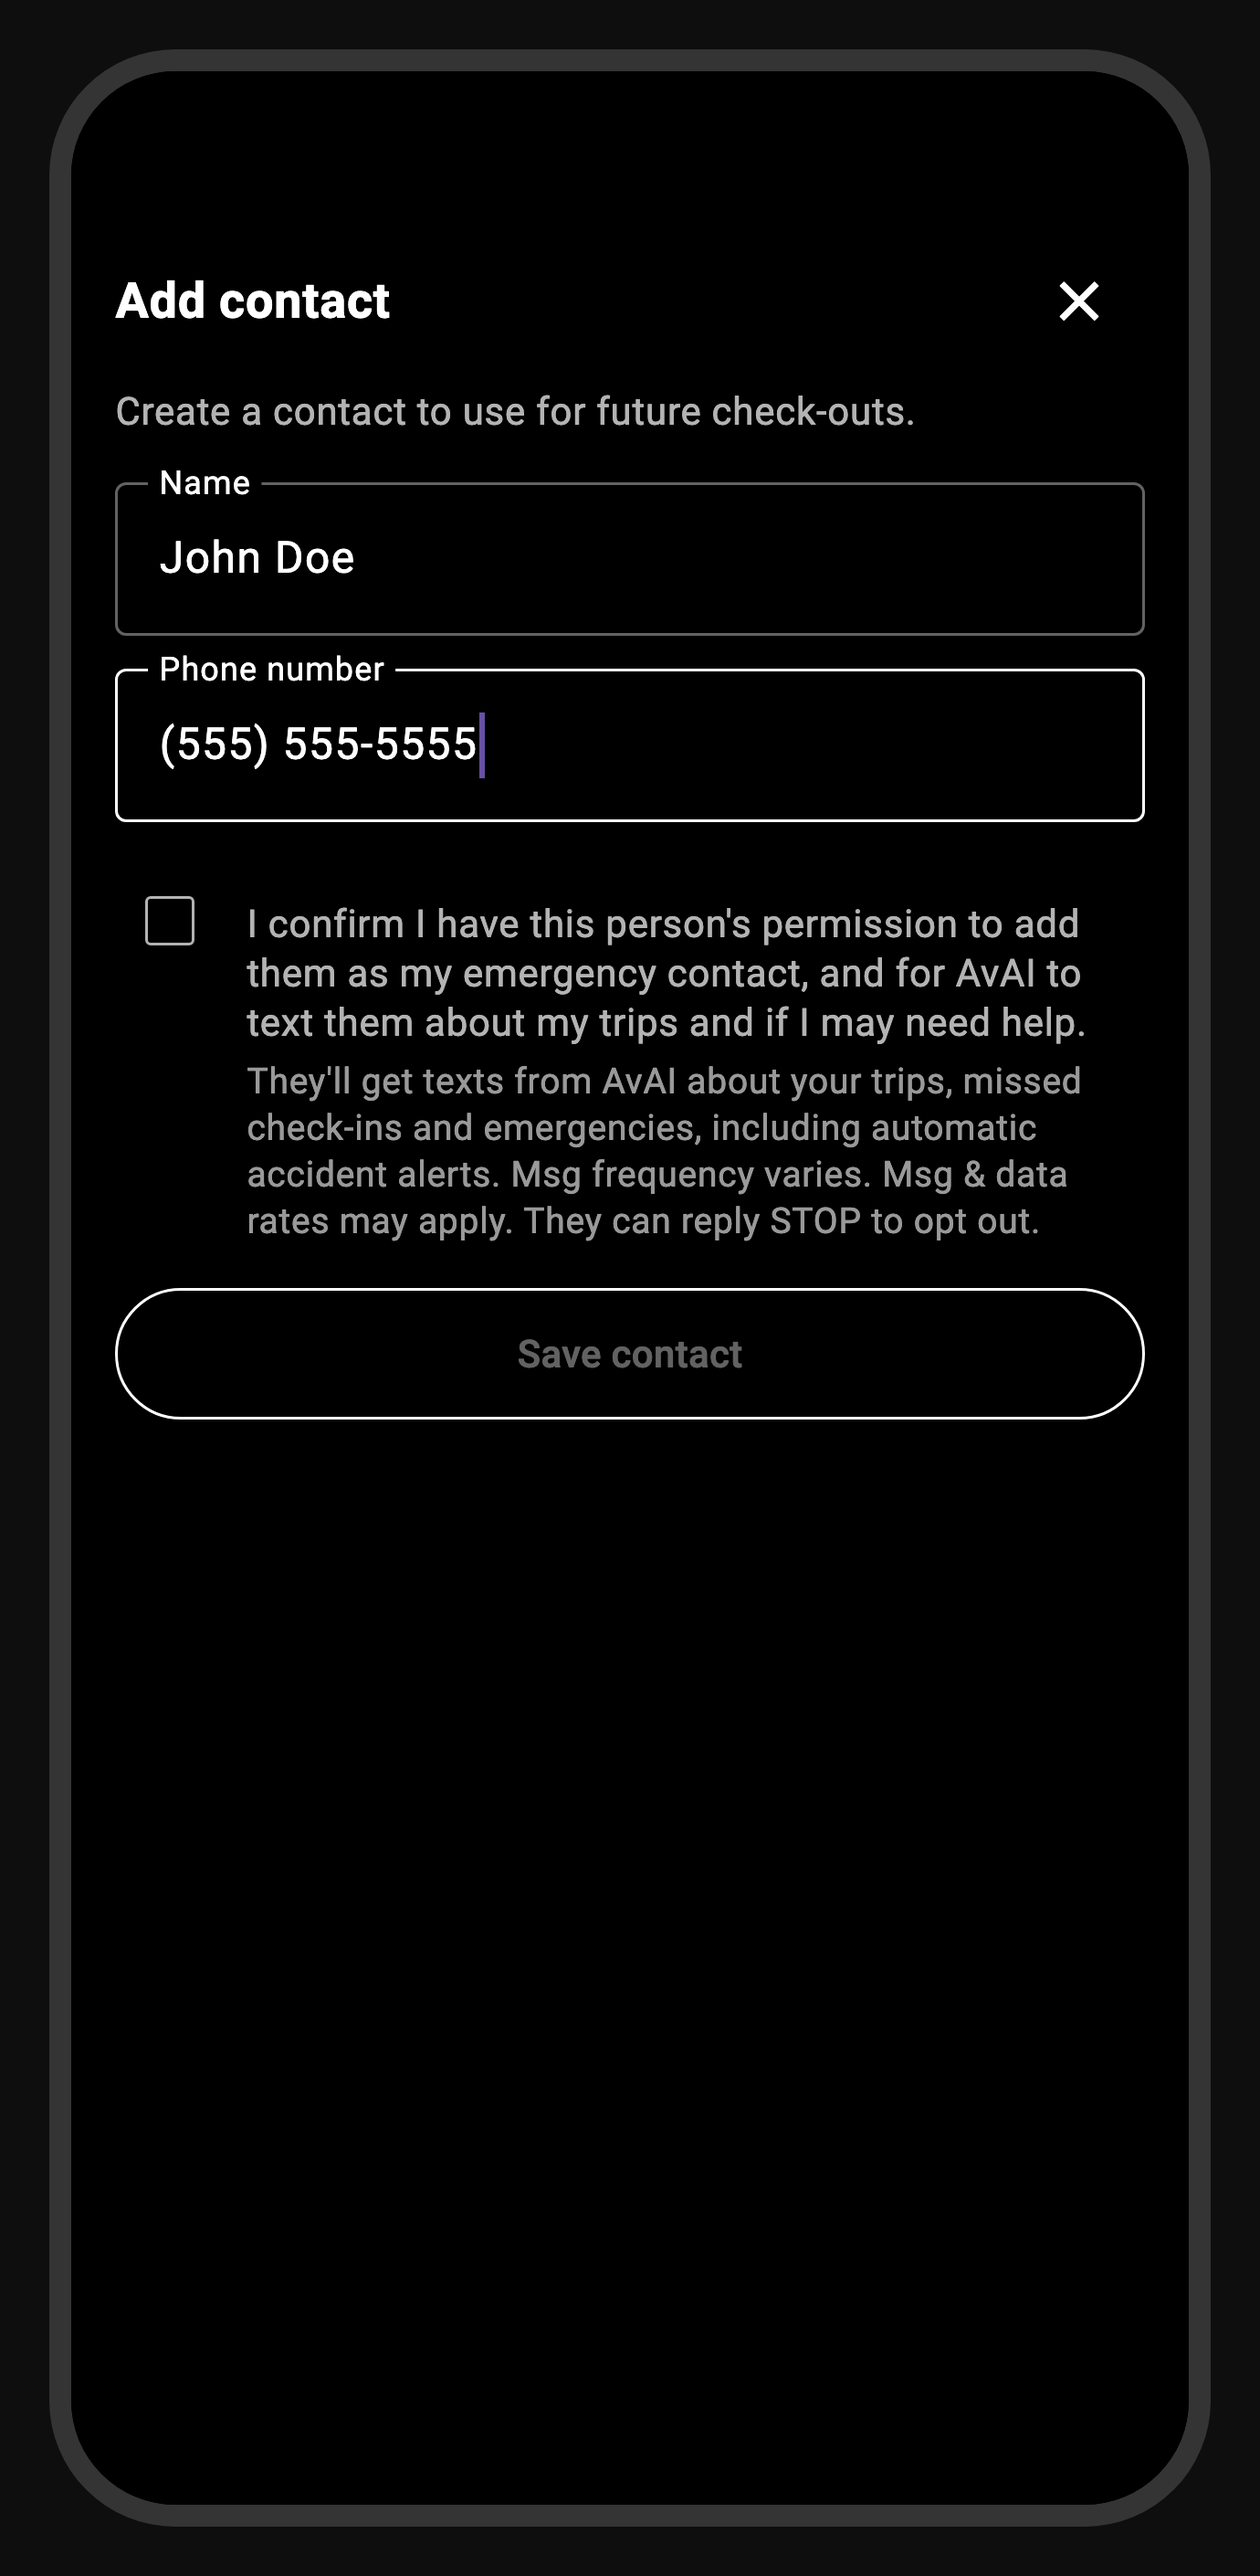
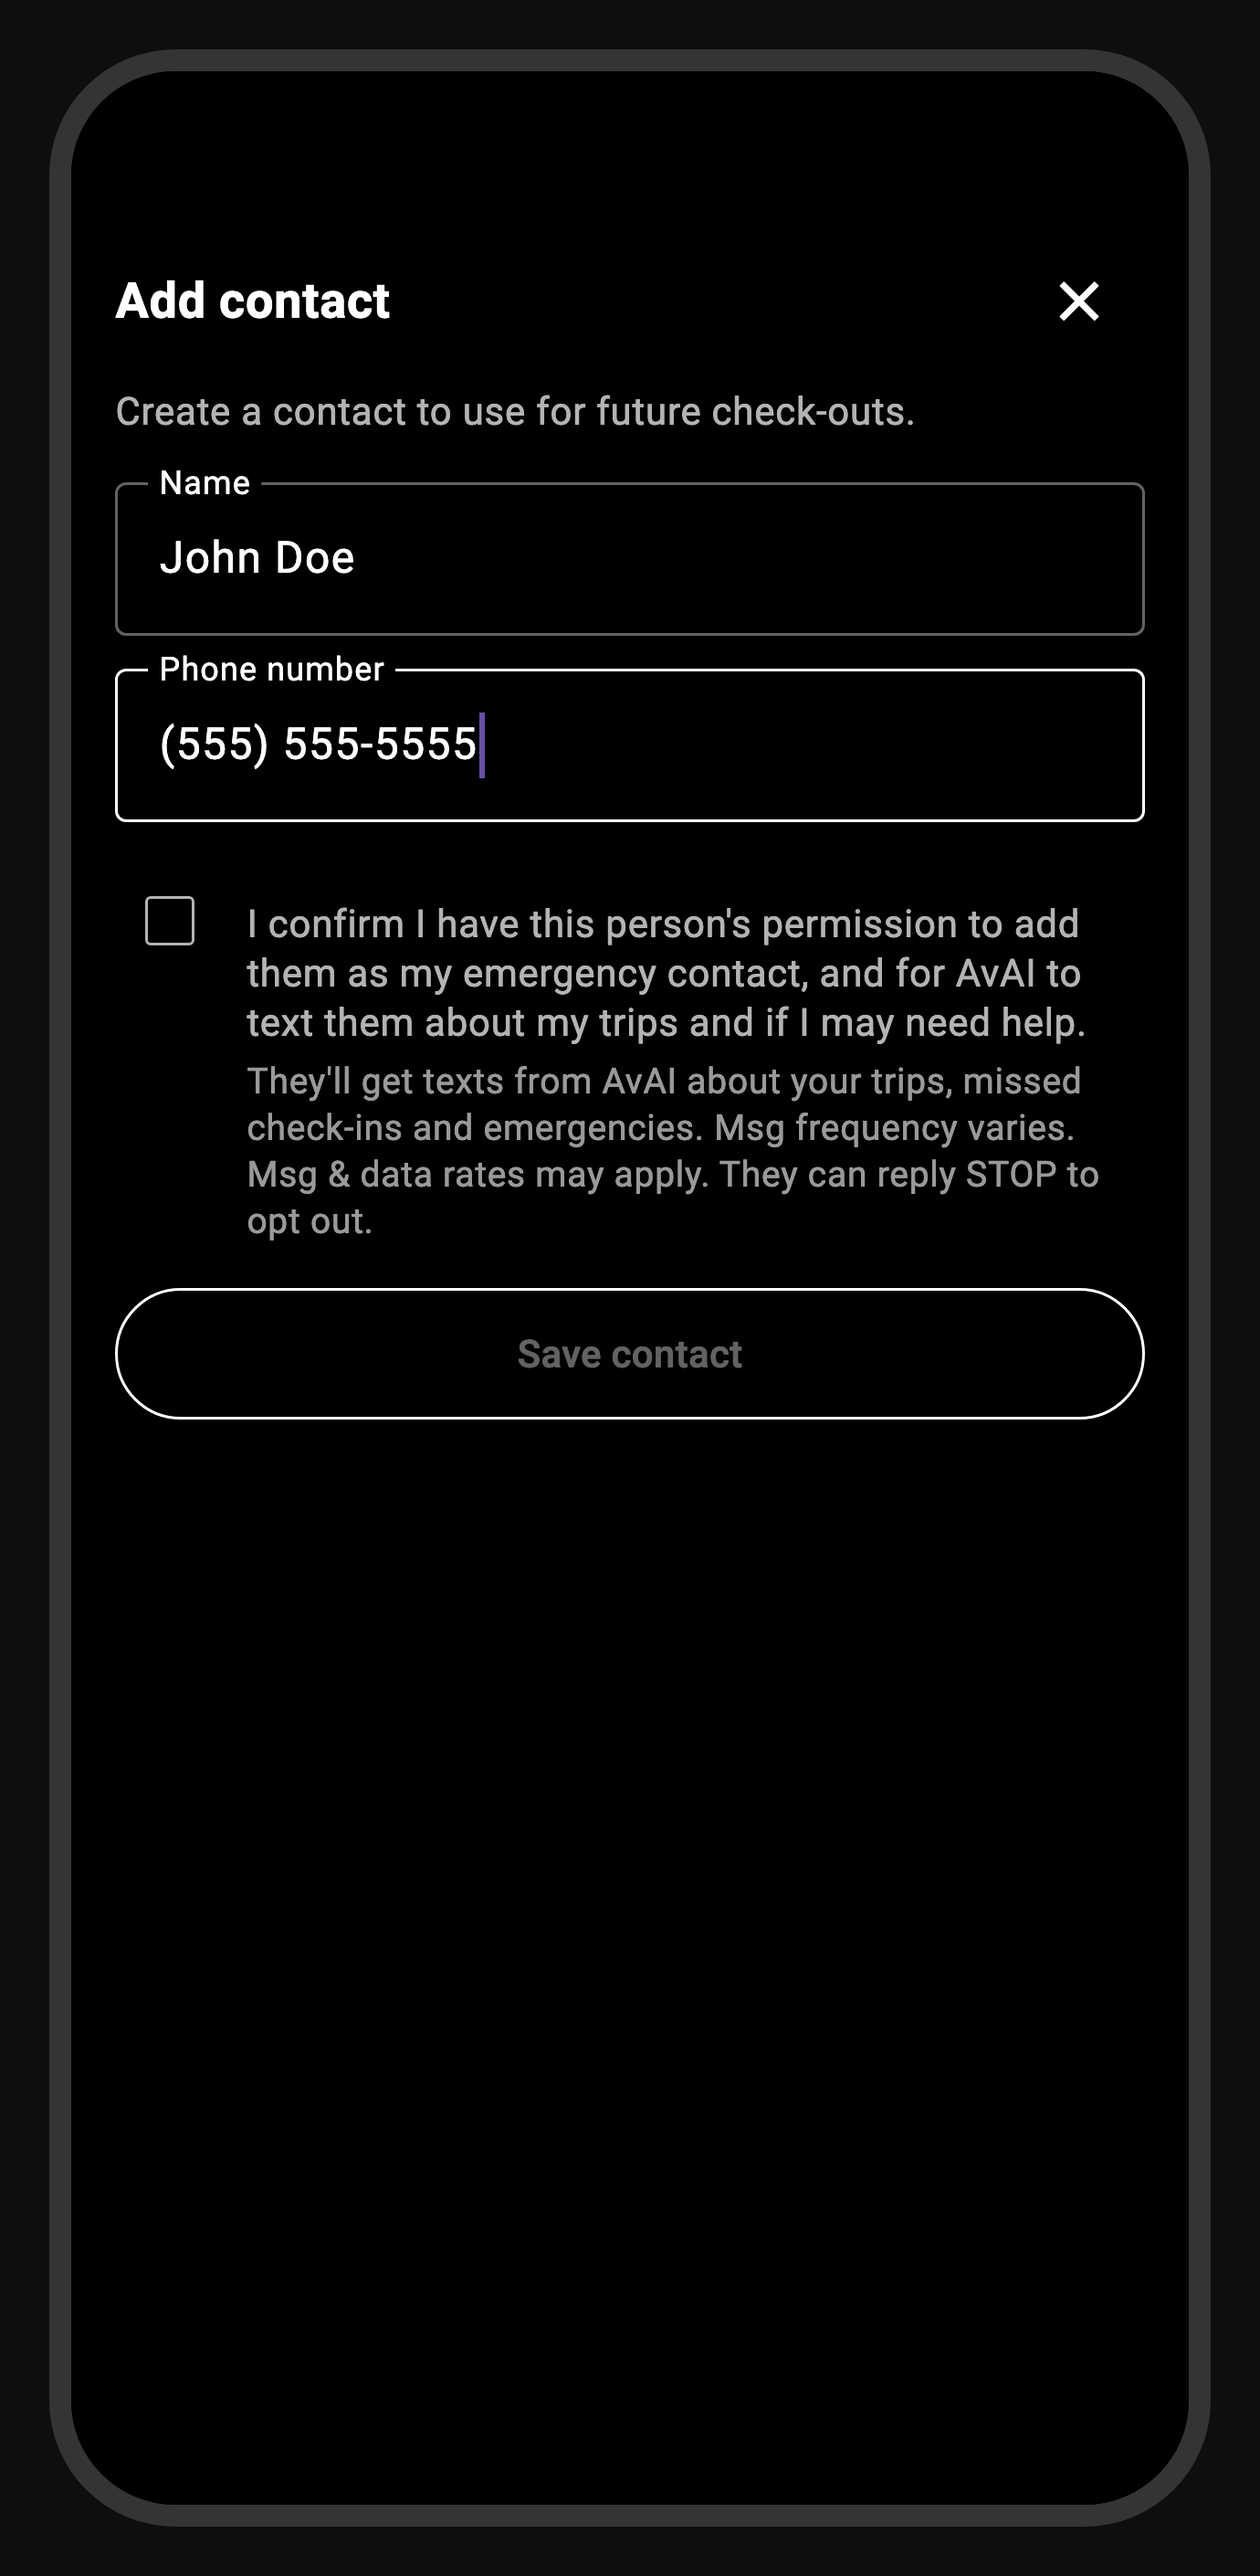
sms: show the Add Contact screenshot with the narrowed consent line
The /sms screenshot was AvApp's 2026-10-01 capture, which still named
automatic accident alerts. Since the consent line was narrowed (D4), it
contradicted the disclosure text and alt text beside it on the page.
This swaps in AvApp's W6 capture (7b89e7a), which shows
CONTACT_SMS_DISCLOSURE word for word. The pin test approves the new hash
and adds the old one to the superseded list.

Changed region(s): [[0.187, 0.4369, 0.8725, 0.4993]]

diff --git a/app/(public)/sms/page.tsx b/app/(public)/sms/page.tsx
@@ -60,12 +60,13 @@ export default function SmsProgramPage() {
           <figure className="mt-4 flex flex-col items-center">
             {/* A static screenshot of the AvApp Add Contact screen (fixture
                 data), copied from AvApp main docs/screenshots/
-                add_contact_attestation.png (2026-10-01, 987465e; AvServ account
-                contract §3.8). That capture still shows the earlier disclosure
-                with "automatic accident alerts": retake it in the release that
-                ships the narrowed CONTACT_SMS_DISCLOSURE. Never an HTML
-                checkbox here: a form-like mock is reviewed as a web opt-in
-                form (Twilio 30925 lesson). */}
+                add_contact_attestation.png (2026-10-10, 7b89e7a, W6; AvServ
+                account contract §3.8). It shows the narrowed
+                CONTACT_SMS_DISCLOSURE word for word. Replace it with the owner's
+                on-device capture of the store build when there is one, and
+                again when the Incident Detection cutover changes the line.
+                Never an HTML checkbox here: a form-like mock is reviewed as a
+                web opt-in form (Twilio 30925 lesson). */}
             <Image
               src="/research/designation-attestation.png"
               alt={`Screenshot of the AvAI Add contact screen: name and phone fields, an unticked checkbox labelled "${CONTACT_PERMISSION_ATTESTATION}", the disclosure "${CONTACT_SMS_DISCLOSURE}", and a Save contact button that stays disabled until the box is ticked.`}
